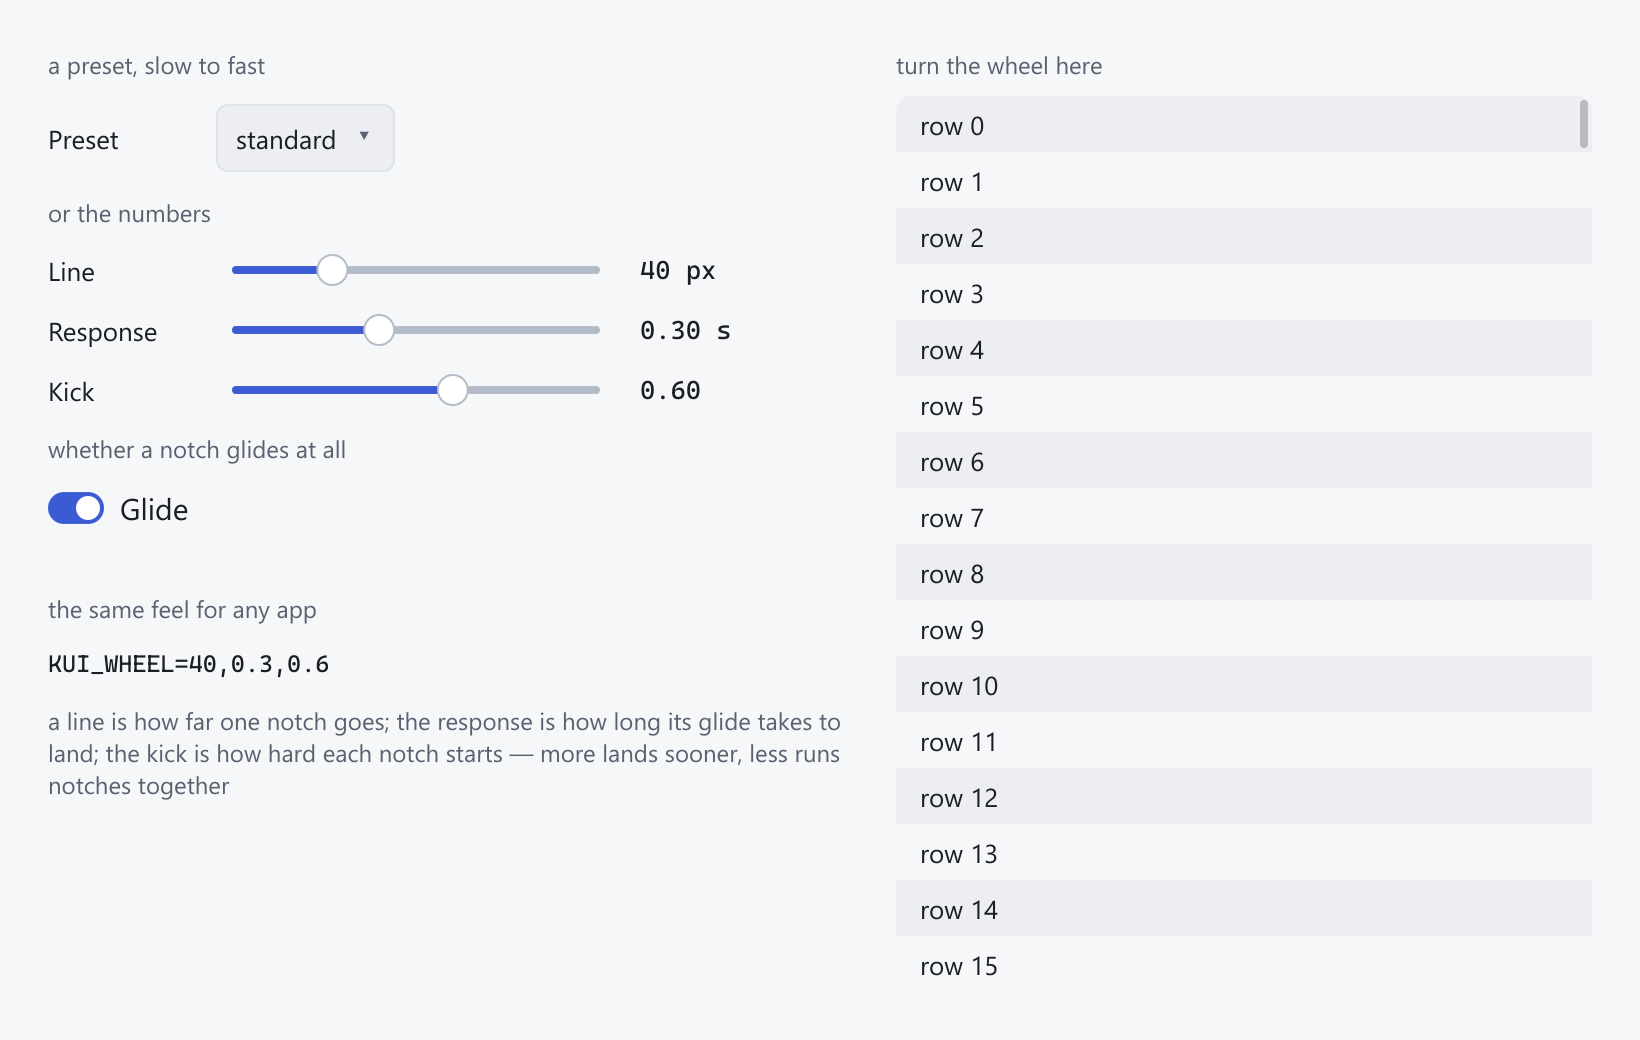
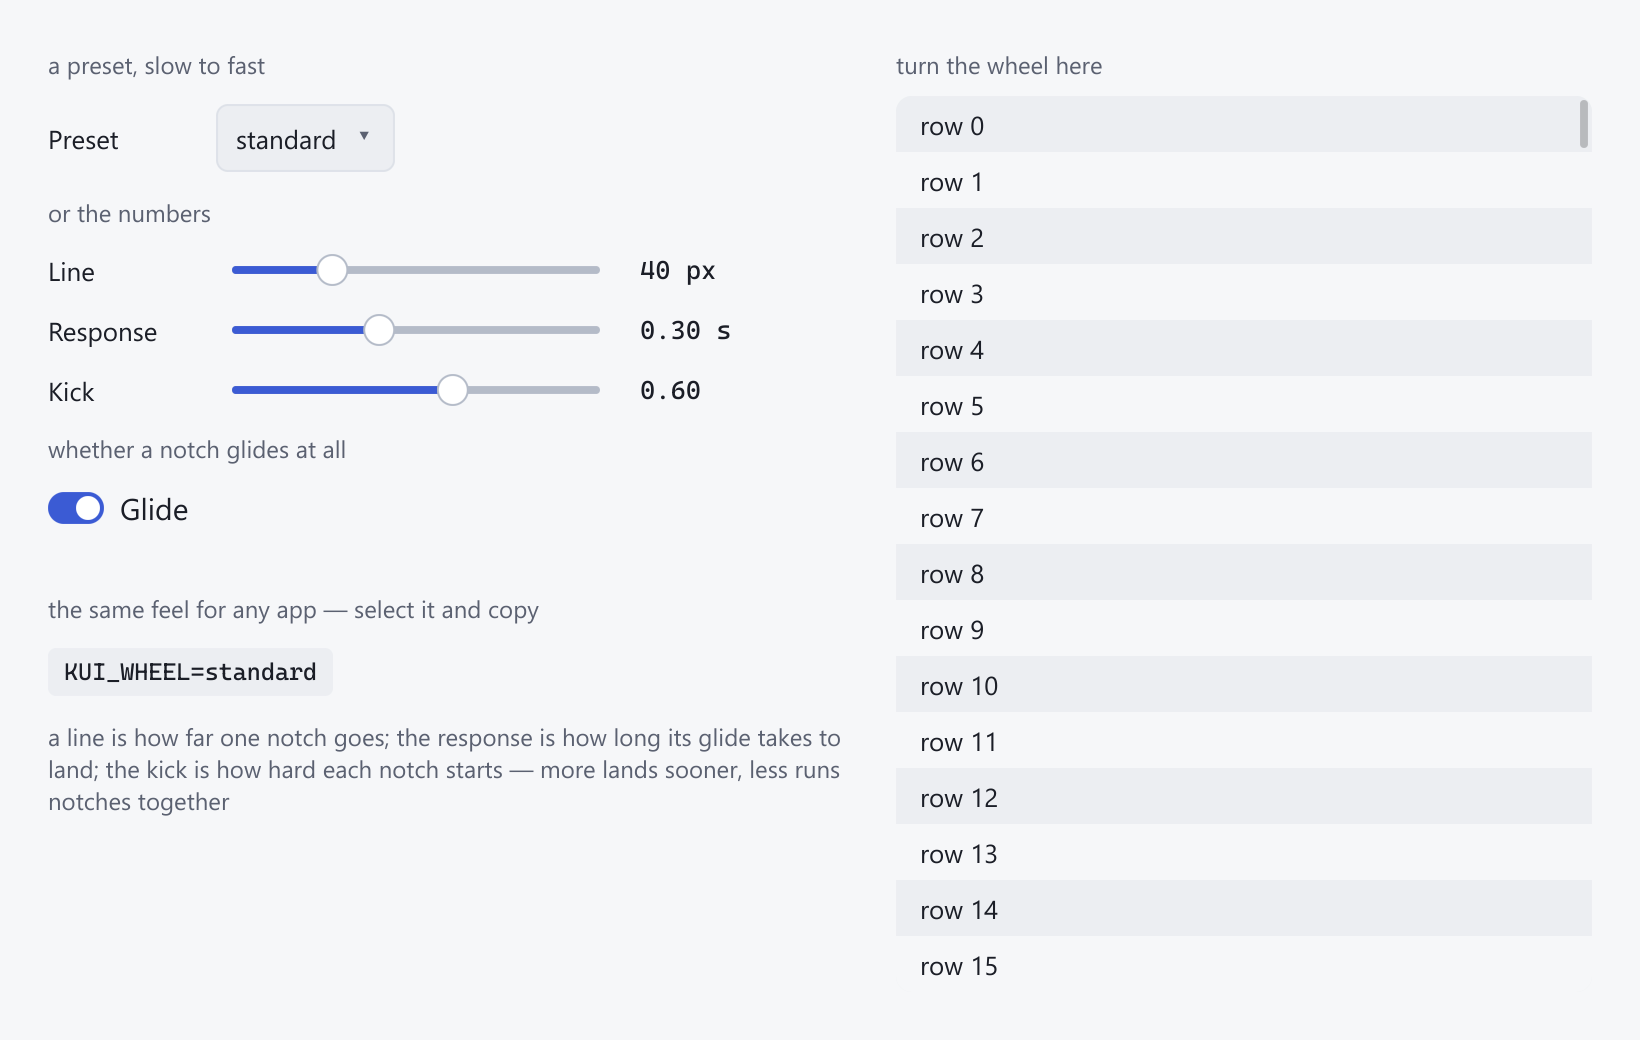
F193: `KUI_WHEEL` overrides the feel an app opens with in Node too — `wheelFeel` to `runWindowed` goes to the window as a window option, as `textAa` does, under the variable, where the loop set it after the window opened and won — and the example's `KUI_WHEEL` line is a selectable scope, a preset by
Checked in a real window: `wheelFeel: 'swift'` opens at 64 px, and at
`gentle`'s numbers under `KUI_WHEEL=gentle`. A headless `createApp`
still takes `wheelFeel` from the loop. Rust's launcher and C's
`kui_run` already applied the variable over every startup setting; the
ADR, howto and changelog say so for every binding.

Changed region(s): [[0.0311, 0.6154, 0.5287, 0.8], [0.2177, 0.5846, 0.311, 0.6154]]

diff --git a/packages/kui/index.js b/packages/kui/index.js
@@ -331,7 +331,9 @@ function createLoop({ init, update, view, tick, windows, teardown }, opts, surfa
   // The app's input feel (ADR 0050): the window copies it to every window
   // it opens after the main.
   if (opts.smoothWheel !== undefined) surface.setSmoothWheel(opts.smoothWheel);
-  if (opts.wheelFeel !== undefined) surface.setWheelFeel(opts.wheelFeel);
+  // A window took its feel when it opened (`windowOptions`), where
+  // `KUI_WHEEL` in the environment overrides it; set here it would win.
+  if (opts.wheelFeel !== undefined && !(surface instanceof KuiWindow)) surface.setWheelFeel(opts.wheelFeel);
   const { show, open } = transport(surface, opts);
   let model;
   // Whether `teardown` has run: once, whichever end reaches it first — the
@@ -1087,8 +1089,8 @@ runWindowed[PACE] = pacer;
  * is opened as a user who asked for less motion would see it.
  */
 export function windowOptions(opts = {}) {
-  const { width, height, minWidth, minHeight, maxWidth, maxHeight, chrome, textAa, frameLatency, system, icon, appId, backdrop, titlebar } = opts;
-  return { width, height, minWidth, minHeight, maxWidth, maxHeight, chrome, textAa, frameLatency, system, icon, appId, backdrop, titlebar };
+  const { width, height, minWidth, minHeight, maxWidth, maxHeight, chrome, textAa, frameLatency, system, icon, appId, backdrop, titlebar, wheelFeel } = opts;
+  return { width, height, minWidth, minHeight, maxWidth, maxHeight, chrome, textAa, frameLatency, system, icon, appId, backdrop, titlebar, wheelFeel };
 }
 
 /**

diff --git a/packages/kui/index.d.ts b/packages/kui/index.d.ts
@@ -2286,8 +2286,9 @@ export interface WindowOptions {
   smoothWheel?: boolean;
   /** How a mouse wheel's notch scrolls, in every window of the app: a
    *  preset's name (`'brisk'` is a touch faster than the default) or the
-   *  numbers to change (`win.setWheelFeel`). Set after the window opens,
-   *  so it wins over `KUI_WHEEL` in the environment. */
+   *  numbers to change from the standard feel. Taken as the window opens,
+   *  so `KUI_WHEEL` in the environment overrides it, as `KUI_TEXT_AA`
+   *  overrides `textAa`; `win.setWheelFeel` afterwards wins over both. */
   wheelFeel?: WheelPreset | Partial<WheelFeel>;
 }
 

diff --git a/examples/rust/features/wheel_feel.rs b/examples/rust/features/wheel_feel.rs
@@ -9,7 +9,9 @@
 //! - a switch turns the glide off, where a notch jumps its line.
 //!
 //! Turn the wheel over the list on the right to feel it. The line under
-//! the sliders is the same feel as `KUI_WHEEL`, to run any app with it.
+//! the sliders is the same feel as `KUI_WHEEL` — a preset's name, or the
+//! three numbers — in a `selectable` scope, to copy and run any app with
+//! it: the variable wins over whatever feel the app opens with.
 //!
 //! The view holds no copy of the feel: it reads the core's, and the
 //! handler writes the core's (`App::on_event_with`), so `KUI_WHEEL=brisk`
@@ -34,6 +36,15 @@ struct WheelFeelDemo;
 /// The `{kind}` message every control here declares.
 fn message(kind: &str) -> Value {
     Value::map([("kind", Value::str(kind))])
+}
+
+/// `feel` as the `KUI_WHEEL` line that sets it: its preset's name when it
+/// is one, else its three numbers.
+fn env_line(feel: WheelFeel) -> String {
+    match preset_of(feel) {
+        Some(i) => format!("KUI_WHEEL={}", WheelFeel::PRESETS[i].0),
+        None => format!("KUI_WHEEL={},{},{}", feel.line_px, feel.response, feel.kick),
+    }
 }
 
 /// The preset `feel` is, by its index in [`WheelFeel::PRESETS`]; `None`
@@ -133,10 +144,19 @@ impl App for WheelFeelDemo {
                     widgets::switch(ui, "Glide", glides, message("glide"));
 
                     ui.leaf(NodeSpec::column().height(8.0));
-                    heading(ui, "the same feel for any app");
-                    ui.text(
-                        &format!("KUI_WHEEL={},{},{}", feel.line_px, feel.response, feel.kick),
-                        TextStyle::new(12.0).color(t.fg).mono(),
+                    heading(ui, "the same feel for any app — select it and copy");
+                    // A selectable scope: drag or triple-click, then
+                    // Ctrl+C (⌘C), as in any text the runner selects.
+                    ui.with_keyed(
+                        "env-line",
+                        NodeSpec::row()
+                            .pad_xy(8.0, 4.0)
+                            .radius(4.0)
+                            .bg(t.sunken)
+                            .selectable(),
+                        |ui| {
+                            ui.text(&env_line(feel), TextStyle::new(12.0).color(t.fg).mono());
+                        },
                     );
                     heading(
                         ui,
@@ -276,6 +296,15 @@ impl Example for WheelFeelDemo {
             d.core.wheel_feel() == WheelFeel::SWIFT,
             "the select's choice is the core's feel",
         )?;
+        // The env line selects as the line to paste into a shell.
+        let env = d.key_of("env-line").ok_or("no env line")?;
+        d.core.select_all_in(env);
+        d.frame(self);
+        let picked = d.core.selection_text().unwrap_or_default();
+        d.check(
+            picked == "KUI_WHEEL=swift",
+            &format!("the env line selects whole, a preset by name: {picked:?}"),
+        )?;
         d.move_to(self, over.x, over.y);
         let y = notch(&mut d, self);
         d.check(y == 104.0, &format!("a swift notch goes 64 px more: {y}"))?;
@@ -299,6 +328,13 @@ impl Example for WheelFeelDemo {
         d.check(
             preset_of(d.core.wheel_feel()).is_none(),
             "and the feel is no preset now",
+        )?;
+        d.check(
+            d.texts_under("env-line") == ["KUI_WHEEL=66,0.24,0.62"],
+            &format!(
+                "the env line spells the numbers: {:?}",
+                d.texts_under("env-line")
+            ),
         )?;
 
         // The switch off: the next notch is there on the next frame.

diff --git a/crates/kui-node/src/lib.rs b/crates/kui-node/src/lib.rs
@@ -2262,6 +2262,11 @@ impl KuiWindow {
                 )));
             }
         };
+        // The wheel feel, the launcher's `wheel_feel`, so `KUI_WHEEL` in
+        // the environment still wins: a user's override over the app's.
+        if let Some(v) = o.get("wheelFeel").filter(|v| !v.is_null()) {
+            launcher = launcher.wheel_feel(wheel_feel_arg(v, kui_core::WheelFeel::STANDARD)?);
+        }
         // The glyph antialiasing, the launcher's `text_aa`; `KUI_TEXT_AA`
         // in the environment still wins, for an A/B by hand.
         launcher = match o.get("textAa") {

diff --git a/docs/adr/0050-a-wheel-notch-glides.md b/docs/adr/0050-a-wheel-notch-glides.md
@@ -349,8 +349,13 @@ setting, the app's like the switch.
   `line_px,response,kick` (trailing numbers may be left off), sets the
   main core's feel when the native runner opens it, over the launcher's,
   as `KUI_FRAME_LATENCY` is: to compare feels in an app without
-  rebuilding it. A feel set after the window opens (Node's `wheelFeel`,
-  a later `set_wheel_feel`) wins over it.
+  rebuilding it, and for a user to override the feel an app ships
+  with. Every way an app sets its feel before the window opens is
+  under it: the launcher's `wheel_feel` and `setup_core`, a core handed
+  to `Launcher::core` (so C's `kui_set_wheel_feel` before `kui_run`),
+  and Node's `wheelFeel`, which goes to the window as a window option
+  as `textAa` does. Only a call while the app runs (a settings screen's
+  `set_wheel_feel`) changes it after.
 
 Tests: `wheel_glide.rs` (`presets_go_by_name`,
 `a_notch_goes_the_feels_line`,

diff --git a/docs/howto.md b/docs/howto.md
@@ -1266,7 +1266,11 @@ default, 40 px a notch), `brisk` (a touch faster, 48 px) and `swift`
 in seconds and its `kick`. `Launcher::wheel_feel(WheelFeel::BRISK)`,
 `wheelFeel: 'brisk'` to `runWindowed`, `kui_set_wheel_preset(ctx,
 KUI_STR("brisk"))`. To try one without a rebuild, run the app with
-`KUI_WHEEL=brisk`, or `KUI_WHEEL=56,0.25,0.6` for numbers of your own.
+`KUI_WHEEL=brisk`, or `KUI_WHEEL=56,0.25,0.6` for numbers of your own:
+it overrides the feel the app opens with, so a user who wants another
+can have it, and only the app's own settings screen, changing it while
+it runs, comes after. The `wheel_feel` example tunes one by hand and
+spells its line to copy.
 
 For the app's own moves, declare a `transition` on the scroll
 container. A `reveal` or a `set_scroll` then eases the offset over it —

diff --git a/CHANGELOG.md b/CHANGELOG.md
@@ -56,7 +56,8 @@ a group still lights its members together.
   })` and `wheelFeel()`, and `wheelFeel` to `runWindowed` and
   `createApp`; the launcher's `wheel_feel`. `KUI_WHEEL=brisk` (or
   `KUI_WHEEL=56,0.25,0.6`) tries one in any native window without a
-  rebuild.
+  rebuild, and overrides the feel the app opens with, in every binding;
+  the `wheel_feel` example spells the line to copy.
 
 ### Fixed
 
